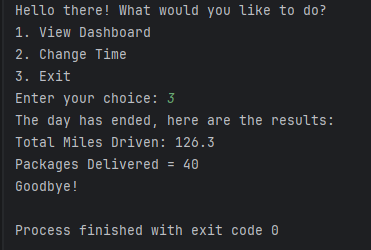
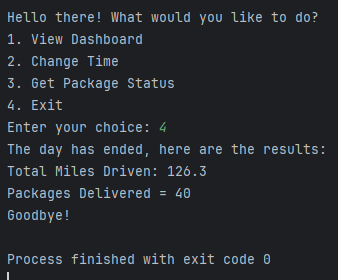
Ended up having to add functionality to veiw a package and it's status at a given time then updated readme

diff --git a/main.py b/main.py
@@ -25,7 +25,7 @@ print("Welcome!!")
 print(f"Current Time: {current_time}")
 print("Booting up, please wait...")
 while True:
-    print("\033[2JHello there! What would you like to do?\n1. View Dashboard \n2. Change Time\n3. Exit", end="")
+    print("\033[2JHello there! What would you like to do?\n1. View Dashboard \n2. Change Time\n3. Get Package Status \n4. Exit", end="")
     input_choice = input("\nEnter your choice: ")
     if input_choice == "1":
         print(f"Current Time: {current_time}")
@@ -52,7 +52,23 @@ while True:
             case _:
                 print("Invalid choice. Please try again.")
         print(f"Current Time: {current_time}")
-    elif input_choice == "3":
+    elif input_choice == '3':
+        try:
+            package_id = int(input("Enter Package ID: "))
+        except ValueError:
+            print("Invalid choice. Please try again.")
+            continue
+        try:
+            req_time = input("Enter requested time: ")
+            requested_time = datetime.time.strptime(req_time, "%H:%M")
+        except ValueError:
+            print("Invalid choice. Please try again.")
+            continue
+        package = wgups_table.get_bucket(package_id)
+        print(f"Getting Package ID: {package.id} at time: {req_time}")
+        print(package.print_package(requested_time))
+        print("--------------------------")
+    elif input_choice == "4":
         print("The day has ended, here are the results:")
         print(f"Total Miles Driven: {total_miles}")
         print("Packages Delivered = 40")

diff --git a/README.md b/README.md
@@ -260,10 +260,11 @@ queue set that will deliver the final packages after truck two and driver 1 arri
 *THE USER INTERFACE AND SCREENSHOTS
 
 This one was a little challenging because there are a lot of edge cases that the user could do that could cause errors.
-To prevent those, we kept it simple and robust. There are only three options to choose from, show dashboard to see all the
-packages and the trucks, change time to add time to the simulation, and exit. The simulation will start at 7:30 am and
-show all the packages that have been received and sorted and those that are not in facility via Label Created. The routes
-have already been pre-planned and the purpose of the simulation is to simply see the statuses at given times of the day.
+To prevent those, we kept it simple and robust. There are only four options to choose from, show dashboard to see all the
+packages and the trucks, change time to add time to the simulation, view a package and its status at a requested time, and exit. 
+The simulation will start at 7:30 am and show all the packages that have been received and sorted and those that are not 
+in facility via Label Created. The routes have already been pre-planned and the purpose of the simulation is to simply 
+see the statuses at given times of the day.
 
 Given a time constraint, there is much more that can be added (such as allowing the user to traverse backwards in addition
 to forwards in time) to improve it. For the purposes of this assignment, however, what is created will satisfy.
@@ -325,3 +326,5 @@ of the linked list, with a time complexity of O(N).
 
 <a id="1">[1]: </a>
 Krymgand, A. (n.d.). The Christofides algorithm. The Christofides Algorithm. https://alon.kr/posts/christofides
+
+Lysecky, R., & Vahid, F. (2018, June). C950: Data Structures and Algorithms II. zyBooks. Retrieved May 10, 2026, from https://learn.zybooks.com/zybook/WGUC950AY20182019/